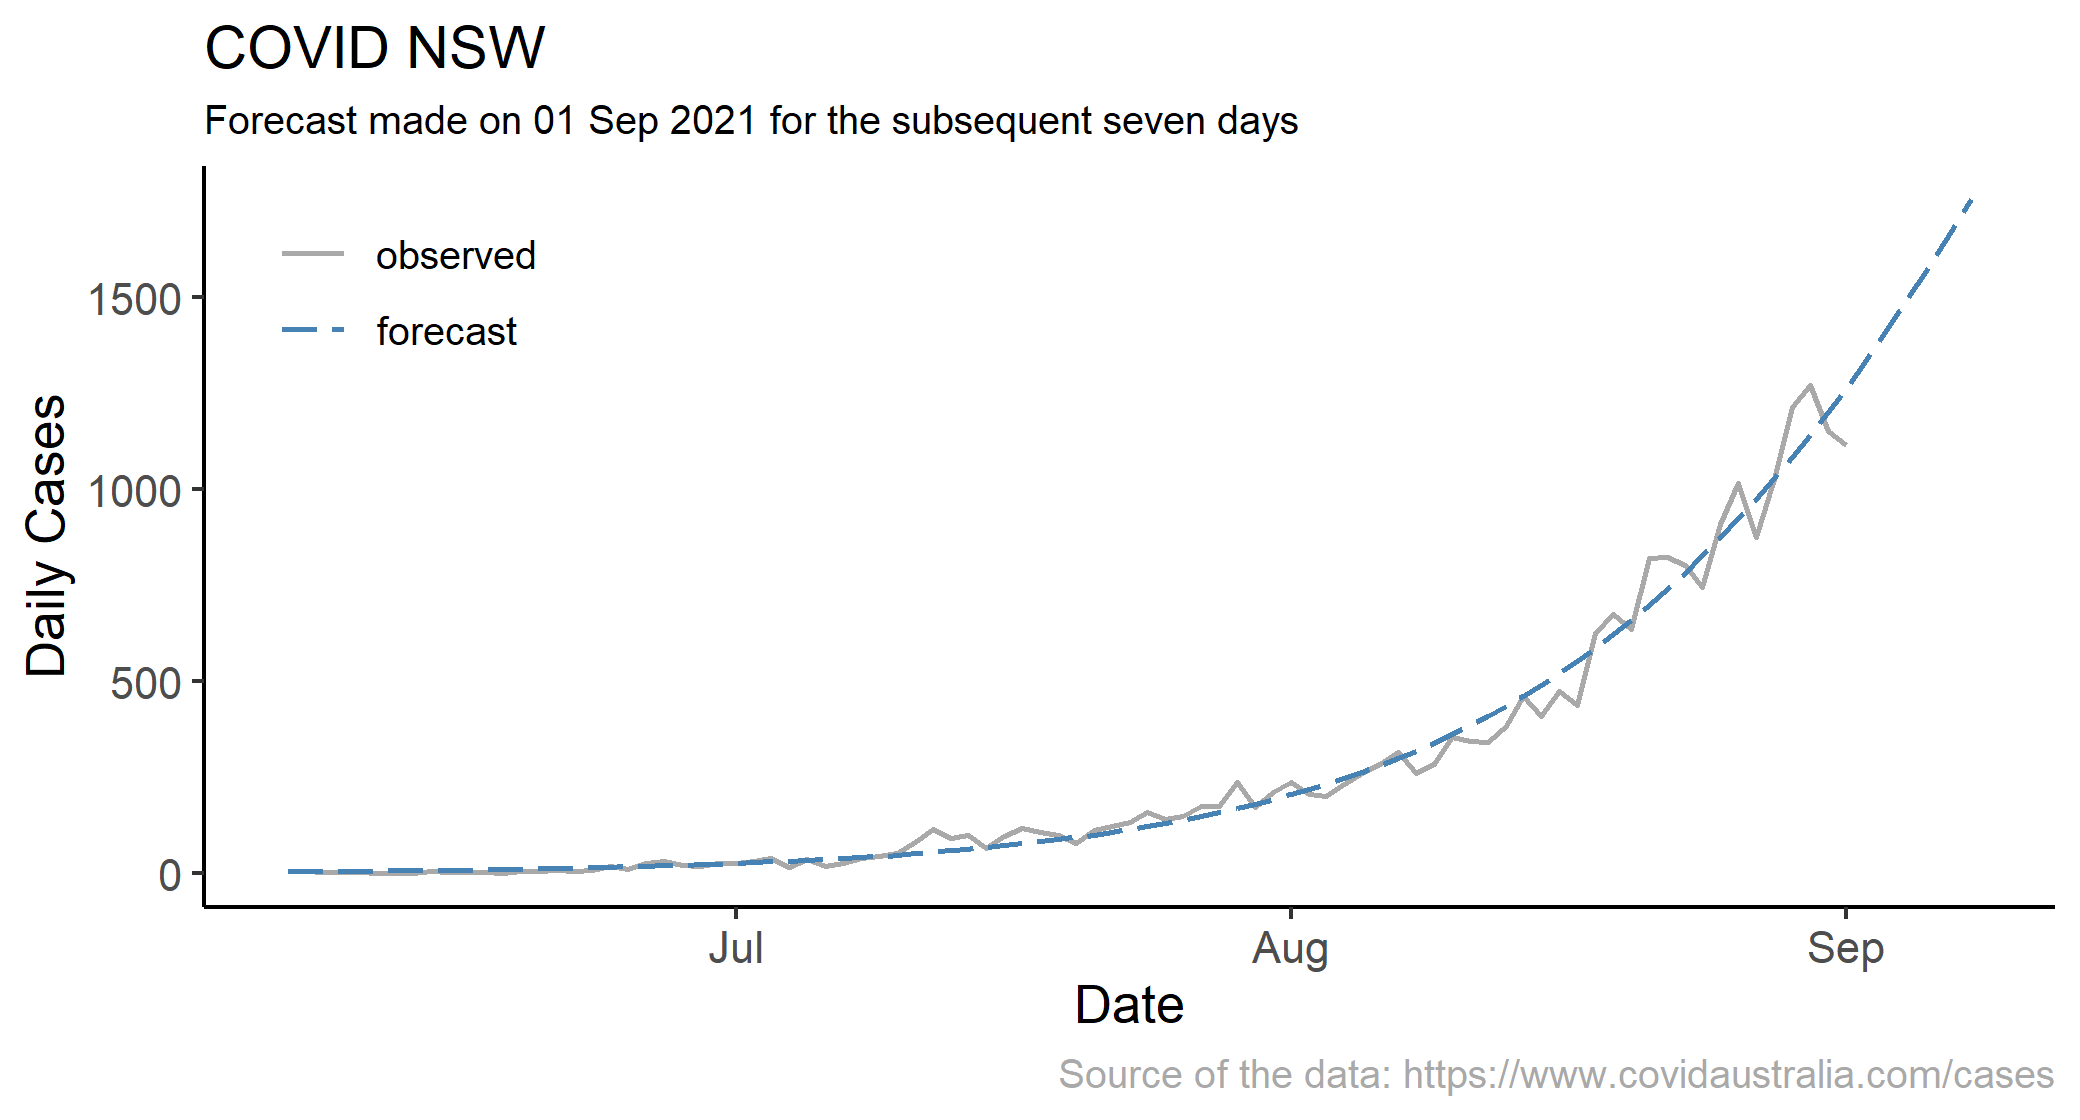
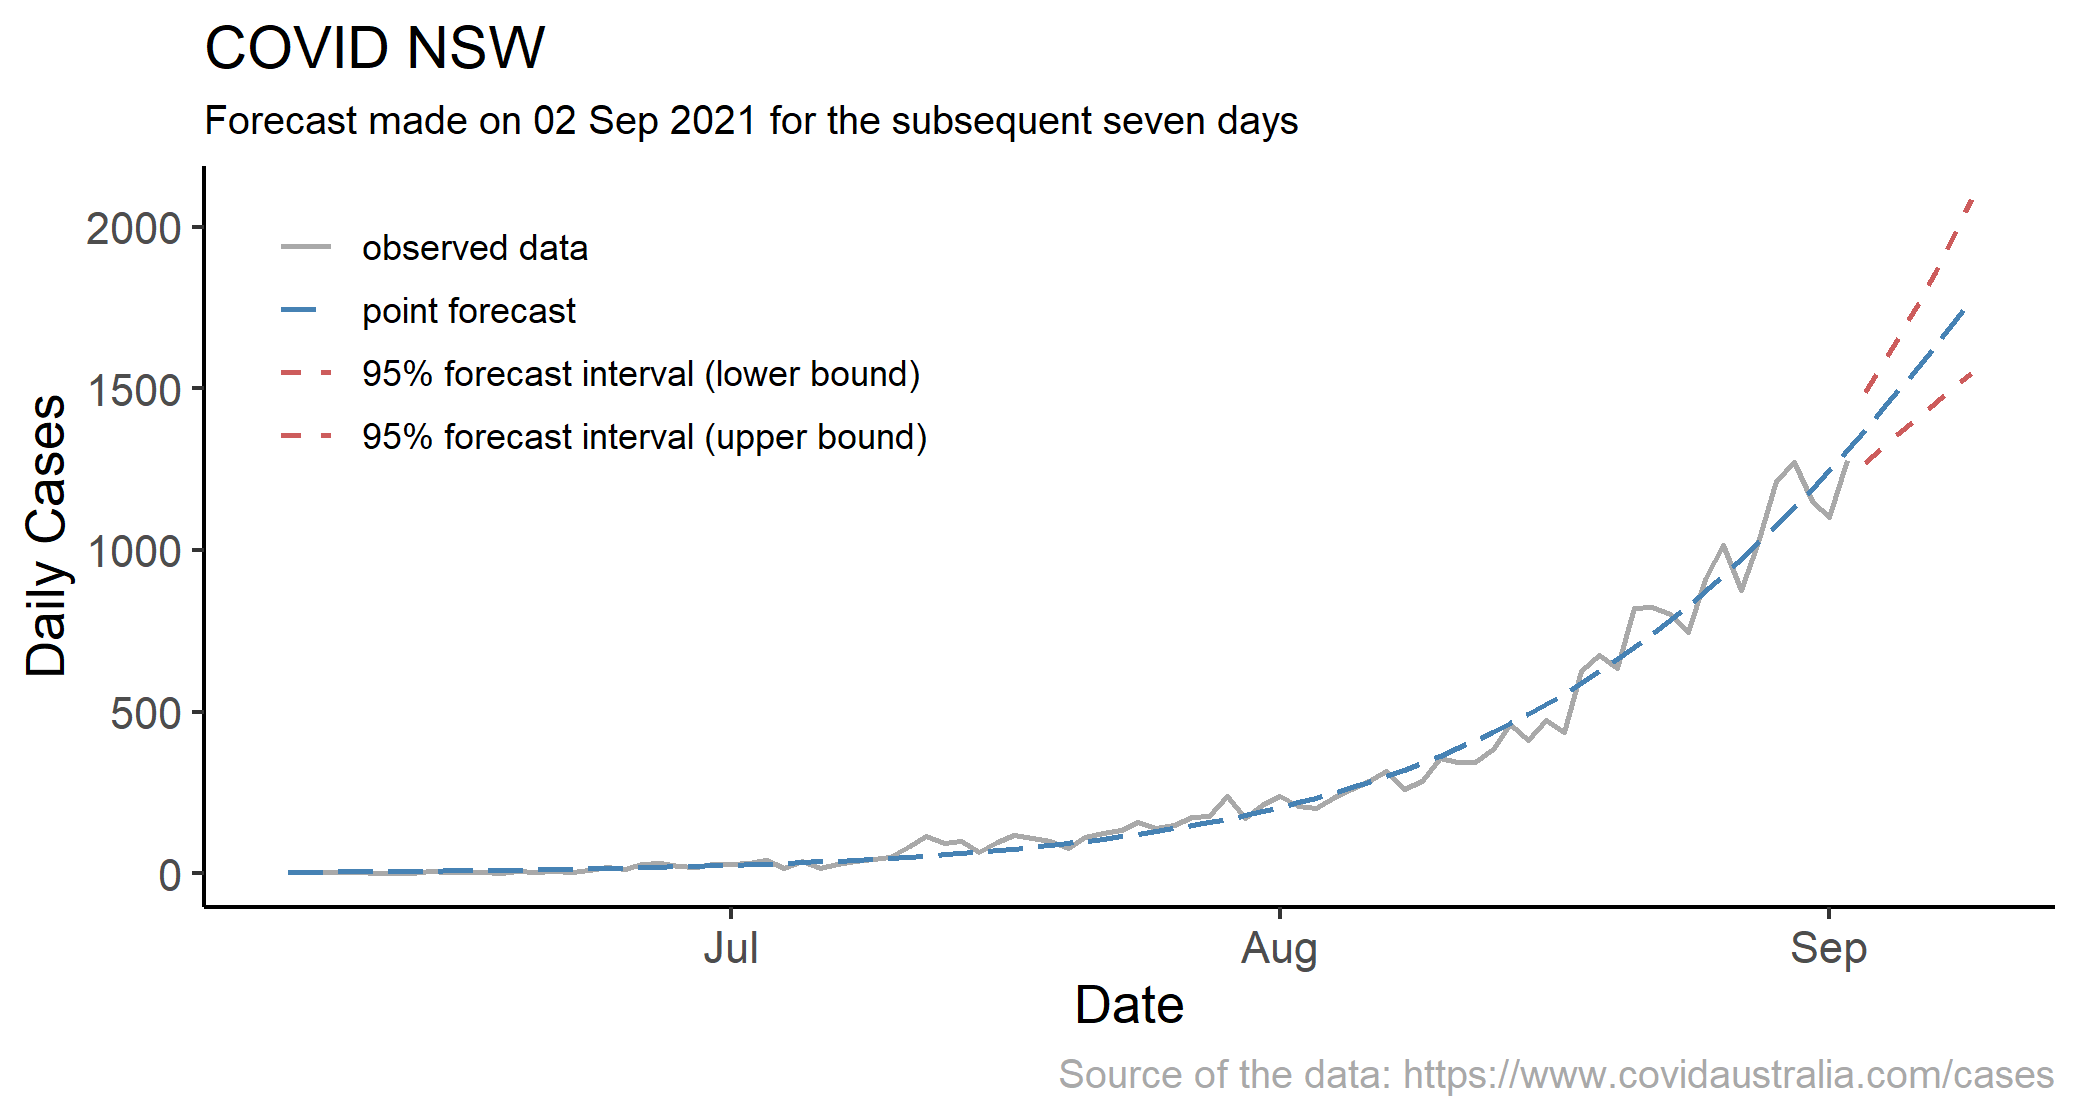
added bootstrapped ci to forecasts, updated readme

diff --git a/README.md b/README.md
@@ -6,11 +6,11 @@ But there is more to that. With this project, I have combined two important topi
 
 ## Data and Models
 
-I use the data on daily cases in NSW, obtained from the [COVID Australia](https://www.covidaustralia.com/) project, which I fit to a model from a family if regime-dependent regressions, the smooth transition regression, given by: $$y_t = \alpha+\beta G(t;\gamma,c)+\varepsilon_t,$$ where $y_t$ is the number of cases in a given day, denoted by $t$, and $G(t;\gamma,c) = (1+\exp(-\gamma(t-c)))^{-1}$ is the *logistic* smooth transition function, bounded by zero and one, where $\gamma > 0$ and $c$ are the 'smoothness' and 'centrality' parameters to be estimated; $\varepsilon_t$ is an error term with the usual assumptions. 
+I use the data on daily cases in NSW, obtained from the [COVID Australia](https://www.covidaustralia.com/) project, which I fit to a model from a family if regime-dependent regressions, the smooth transition regression. 
 
-This model will fit the data well in the beginning of the 'wave' but not subsequently. At some point, a better representation will be the multiple-regime smooth transition model, such as, for example: $$y_t = \alpha+\beta_1 G_1(t;\gamma_1,c_1)+\beta_2 G_2(t;\gamma_2,c_2)+\varepsilon_t,$$ where $c_2 > c_1$. This will, potentially, allow for a turning point in the data.
+This model will fit the data well in the beginning of the 'wave' but not subsequently. At some point, a better representation will be the multiple-regime smooth transition model, which will, potentially, allow for turning points in the data.
 
-For example, consider a scenario where we start with zero cases in day 0; then the cases increase for the subsequent 500 days or so, and peak at approximately 3000 cases per day; at that point the cases start decreasing and they 'stabilize' after 800 days at approximately 700 cases per day. The fitted tend from a multiple-regime smooth transition model, in such a scenario, will look as it is illustrated in the graph below.
+As an example, consider a scenario where we start with zero cases in day 0; then the cases increase for the subsequent 500 days or so, and peak at approximately 3000 cases per day; at that point the cases start decreasing and they 'stabilize' after 800 days at approximately 700 cases per day. The fitted tend from a multiple-regime smooth transition model, in such a scenario, will look as it is illustrated in the graph below.
 
 ![](illustration.png)
 
